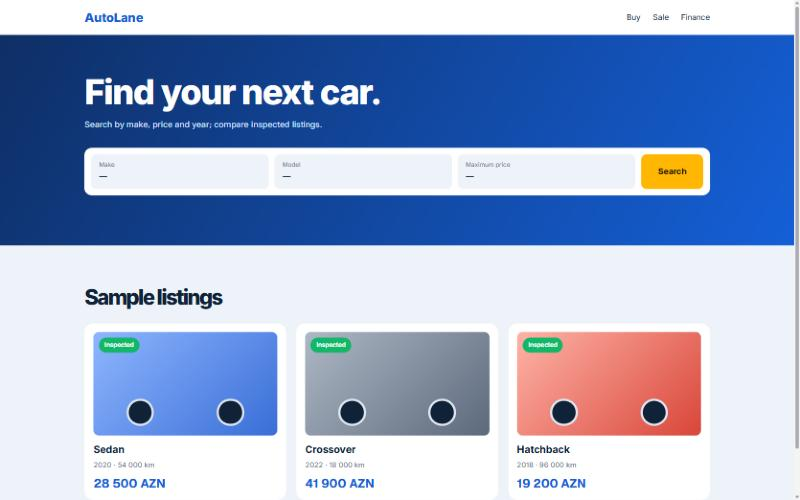
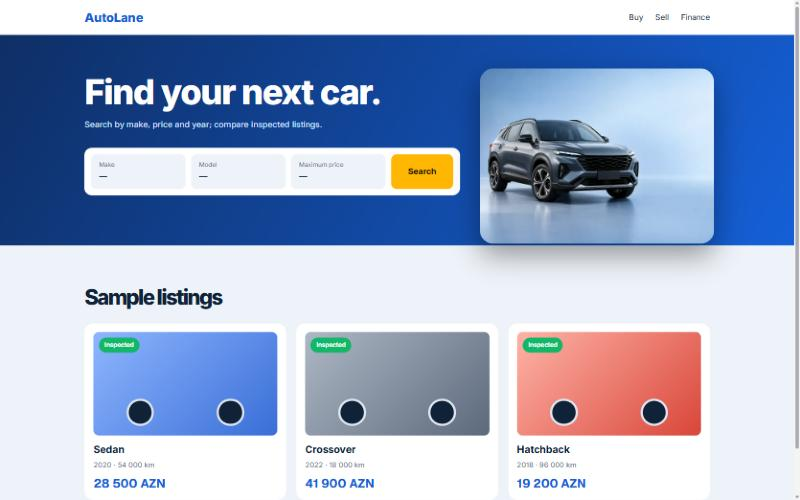
Add ChatGPT-generated hero imagery to showroom concepts and refresh previews
Eight original hero images (clinic, wealth, gym, motors, give, stream,
estate, bazar) resized to 1200px WebP, placed per concept, with new
catalogue preview screenshots.

Changed region(s): [[0.4688, 0.12, 0.9062, 0.54], [0.3438, 0.3, 0.4062, 0.36], [0.7812, 0.03, 0.8438, 0.06]]

diff --git a/storefront/src/showroom.js b/storefront/src/showroom.js
@@ -2,6 +2,7 @@
 import {copy,showroomMeta} from './showroom-copy.js';
 export const showroomIds=Object.keys(showroomMeta);
 const e=s=>String(s).replace(/&/g,'&amp;').replace(/</g,'&lt;').replace(/>/g,'&gt;');
+const ph=(id,cls)=>`<img class="${cls}" src="/assets/showroom/${id}.webp" alt="" width="1200" height="900" decoding="async">`;
 const wrap=(inner,cls='')=>`<div class="x-wrap ${cls}">${inner}</div>`;
 
 const renderers={
@@ -10,43 +11,44 @@ const renderers={
   return `<header class="cl-nav">${wrap(`<strong>Sunny Kids</strong><nav>${k.nav.map(n=>`<span>${t(n)}</span>`).join('')}</nav><span class="cl-call">${t(k.cta)}</span>`)}</header>`+
   `<section class="cl-hero">${wrap(`<div class="cl-copy"><h1>${t(k.headline)}</h1><p>${t(k.sub)}</p><span class="cl-btn">${t(k.cta)}</span></div><div class="cl-ages" aria-hidden="true">${ages}</div>`)}</section>`+
   `<section class="cl-services">${wrap(`<h2>${t(k.servicesTitle)}</h2><div class="cl-grid">${k.services.map((s,i)=>`<div class="cl-card cl-c${i}"><i></i><strong>${t(s)}</strong></div>`).join('')}</div>`)}</section>`+
-  `<section class="cl-doctors">${wrap(`<h2>${t(k.doctorsTitle)}</h2><div class="cl-docs">${k.doctors.map((d,i)=>`<figure><span class="av av${i}"></span><figcaption>${t(d)}</figcaption></figure>`).join('')}</div><p class="cl-quote">${t(k.quote)}</p>`)}</section>`;
+  `<section class="cl-doctors">${wrap(`<h2>${t(k.doctorsTitle)}</h2><div class="cl-docs">${k.doctors.map((d,i)=>`<figure><span class="av av${i}"></span><figcaption>${t(d)}</figcaption></figure>`).join('')}</div><div class="cl-bottom"><p class="cl-quote">${t(k.quote)}</p>${ph('clinic','cl-photo')}</div>`)}</section>`;
  },
  wealth:(T,t)=>{const k=copy.wealth;
   const chart='<svg viewBox="0 0 200 70" aria-hidden="true"><path d="M0 60 C40 55 60 40 100 34 S160 12 200 6" fill="none" stroke="#1769ff" stroke-width="3"/><path d="M0 60 C40 58 70 52 100 48 S160 36 200 30" fill="none" stroke="#9db8e8" stroke-width="2" stroke-dasharray="4 4"/></svg>';
   return `<header class="wl-top">${wrap(`<strong>Growly</strong><nav>${k.tabs.map((x,i)=>`<span${i===0?' class="on"':''}>${t(x)}</span>`).join('')}</nav>`)}</header>`+
   `<section class="wl-hero">${wrap(`<div><h1>${t(k.headline)}</h1><p>${t(k.sub)}</p><ul>${k.bullets.map(b=>`<li>${t(b)}</li>`).join('')}</ul><span class="wl-btn">${t(k.cta)}</span></div><div class="wl-phone" aria-hidden="true"><div class="wl-screen"><small>${t(k.goal)}</small><b>94 893 AZN</b>${chart}<div class="wl-row"><span>${t(k.balance)}</span><b>1 730 AZN</b></div><div class="wl-row"><span>${t(k.sample)}</span><b>—</b></div></div></div>`)}</section>`+
-  `<section class="wl-cards">${wrap(`<h2>${t(k.cardsTitle)}</h2><div class="wl-grid">${k.cards.map(([h,d],i)=>`<article><span>0${i+1}</span><h3>${t(h)}</h3><p>${t(d)}</p></article>`).join('')}</div><p class="wl-note">${t(k.disclaimer)}</p>`)}</section>`;
+  `<section class="wl-cards">${wrap(`${ph('wealth','wl-photo')}<h2>${t(k.cardsTitle)}</h2><div class="wl-grid">${k.cards.map(([h,d],i)=>`<article><span>0${i+1}</span><h3>${t(h)}</h3><p>${t(d)}</p></article>`).join('')}</div><p class="wl-note">${t(k.disclaimer)}</p>`)}</section>`;
  },
  gym:(T,t)=>{const k=copy.gym;
   const rows=[[0,'19:00','MMA',0],[1,'20:00','Muay Thai',1],[2,'19:00','BJJ',0],[0,'20:30','BJJ',1]].map(([d,h,n,l])=>`<tr><td>${t(k.days[d])}</td><td>${h}</td><td><b>${n}</b></td><td>${t(k.levels[l])}</td></tr>`).join('');
   return `<header class="gy-top">${wrap(`<strong>WOLFPACK</strong><nav>${k.nav.map(n=>`<span>${t(n)}</span>`).join('')}</nav>`)}</header>`+
-  `<section class="gy-hero">${wrap(`<h1>${t(k.headline)}</h1><p>${t(k.sub)}</p><span class="gy-btn">${t(k.cta)}</span>`)}<div class="gy-strip" aria-hidden="true"></div></section>`+
+  `<section class="gy-hero">${ph('gym','gy-photo')}${wrap(`<h1>${t(k.headline)}</h1><p>${t(k.sub)}</p><span class="gy-btn">${t(k.cta)}</span>`)}<div class="gy-strip" aria-hidden="true"></div></section>`+
   `<section class="gy-disc">${wrap(k.disciplines.map(([n,d],i)=>`<article><span>0${i+1}</span><h2>${n}</h2><p>${t(d)}</p></article>`).join(''))}</section>`+
   `<section class="gy-sched">${wrap(`<h2>${t(k.scheduleTitle)}</h2><table><tbody>${rows}</tbody></table>`)}</section>`;
  },
  motors:(T,t)=>{const k=copy.motors;
   const cars=[['28 500','2020 · 54 000 km','blue'],['41 900','2022 · 18 000 km','slate'],['19 200','2018 · 96 000 km','red']].map(([p,s,col],i)=>`<article class="mt-car"><div class="mt-img ${col}"><i></i><i></i></div><span class="mt-badge">${t(k.badge)}</span><h3>${t(k.cars[i])}</h3><p>${s}</p><strong>${p} AZN</strong></article>`).join('');
   return `<header class="mt-top">${wrap(`<strong>AutoLane</strong><nav>${k.nav.map(n=>`<span>${t(n)}</span>`).join('')}</nav>`)}</header>`+
-  `<section class="mt-hero">${wrap(`<h1>${t(k.headline)}</h1><p>${t(k.sub)}</p><div class="mt-search">${k.filters.map(f=>`<span><small>${t(f)}</small><b>—</b></span>`).join('')}<span class="mt-go">${t(k.search)}</span></div>`)}</section>`+
+  `<section class="mt-hero">${wrap(`${ph('motors','mt-photo')}<h1>${t(k.headline)}</h1><p>${t(k.sub)}</p><div class="mt-search">${k.filters.map(f=>`<span><small>${t(f)}</small><b>—</b></span>`).join('')}<span class="mt-go">${t(k.search)}</span></div>`)}</section>`+
   `<section class="mt-list">${wrap(`<h2>${t(k.listingsTitle)}</h2><div class="mt-grid">${cars}</div>`)}</section>`;
  },
  give:(T,t)=>{const k=copy.give;
   return `<header class="gv-top">${wrap(`<strong>Bir Süfrə</strong><nav>${k.nav.map(n=>`<span>${t(n)}</span>`).join('')}</nav>`)}</header>`+
   `<section class="gv-hero">${wrap(`<h1><span>${t(k.line1)}</span><span>${t(k.line2)}</span></h1><div class="gv-badge" aria-hidden="true"><b>${t(k.nav[2])}</b></div>`)}</section>`+
   `<section class="gv-stats">${wrap(`<p class="gv-note">${t(k.sample)}</p><div class="gv-row">${k.stats.map(([n,l])=>`<div><b>${n}</b><span>${t(l)}</span></div>`).join('')}</div>`)}</section>`+
+  `<section class="gv-band">${wrap(ph('give','gv-photo'))}</section>`+
   `<section class="gv-cards">${wrap(k.cards.map(([h,d],i)=>`<article class="gv-c${i}"><h3>${t(h)}</h3><p>${t(d)}</p></article>`).join(''))}</section>`+
   `<section class="gv-donate">${wrap(`<h2>${t(k.amount)}</h2><div class="gv-amounts"><span>10 AZN</span><span class="on">25 AZN</span><span>50 AZN</span></div><span class="gv-btn">${t(k.nav[2])}</span>`)}</section>`;
  },
  stream:(T,t)=>{const k=copy.stream;
   return `<header class="st-top"><strong>Arena</strong><nav>${k.nav.map((n,i)=>`<span${i===0?' class="on"':''}>${t(n)}</span>`).join('')}</nav></header>`+
-  `<section class="st-hero"><div class="st-copy"><small>${t(k.eyebrow)}</small><h1>${t(k.headline)}</h1><p>${t(k.sub)}</p><div><span class="st-play">▶ ${t(k.play)}</span><span class="st-all">${t(k.all)}</span></div></div></section>`+
+  `<section class="st-hero">${ph('stream','st-photo')}<div class="st-copy"><small>${t(k.eyebrow)}</small><h1>${t(k.headline)}</h1><p>${t(k.sub)}</p><div><span class="st-play">▶ ${t(k.play)}</span><span class="st-all">${t(k.all)}</span></div></div></section>`+
   `<section class="st-row"><h2>${t(k.rowTitle)}</h2><div class="st-tiles">${k.tiles.map((x,i)=>`<article class="st-t${i}"><b>${i+1}</b><div><small>${t(k.eyebrow)}</small><strong>${t(x)}</strong></div></article>`).join('')}</div></section>`;
  },
  bazar:(T,t)=>{const k=copy.bazar;
   const items=k.items.map((x,i)=>`<article><div class="bz-img bz${i}"></div><h3>${t(x)}</h3><b>${[899,420,260,1150][i]} AZN</b><small>${t(k.city)} · ${t(k.today)}</small></article>`).join('');
   return `<header class="bz-top">${wrap(`<strong>Bazarlıq</strong><div class="bz-search"><span>${t(k.placeholder)}</span><i>${t(k.city)}</i><b>${t(k.search)}</b></div><span class="bz-post">+ ${t(k.post)}</span>`)}</header>`+
-  `<section class="bz-hero">${wrap(`<h1>${t(k.headline)}</h1><div class="bz-cats">${k.cats.map((c2,i)=>`<span class="bz-cat bzc${i%4}">${t(c2)}</span>`).join('')}</div>`)}</section>`+
+  `<section class="bz-hero">${wrap(`<div><h1>${t(k.headline)}</h1><div class="bz-cats">${k.cats.map((c2,i)=>`<span class="bz-cat bzc${i%4}">${t(c2)}</span>`).join('')}</div></div>${ph('bazar','bz-photo')}`)}</section>`+
   `<section class="bz-prem">${wrap(`<h2>${t(k.premium)}</h2><div class="bz-grid">${items}</div>`)}</section>`;
  },
  avto:(T,t)=>{const k=copy.avto;
@@ -62,7 +64,7 @@ const renderers={
  estate:(T,t)=>{const k=copy.estate;
   const cards=[[0,'165 000','78','2 115',5,0],[1,'112 000','54','2 074',3,1],[2,'289 000','160','1 806',null,0]].map(([ti,p,a,m,f,bd])=>`<article class="es-card"><div class="es-img es${ti}"></div><div><span class="es-type">${t(k.types[ti])}</span><strong>${p} AZN</strong><p>${a} m² · ${m} AZN/m²${f?` · ${e(T(k.floor[0],{n:f}))}`:''}</p><span class="es-badge">${t(k.badges[bd])}</span></div></article>`).join('');
   return `<header class="es-top">${wrap(`<strong>Ünvan</strong><div class="es-modes">${k.modes.map((m,i)=>`<span${i===0?' class="on"':''}>${t(m)}</span>`).join('')}</div><div class="es-rooms"><small>${t(k.rooms)}</small>${['1','2','3','4+'].map((r,i)=>`<span${i===1?' class="on"':''}>${r}</span>`).join('')}</div>`)}</header>`+
-  `<section class="es-main"><div class="es-left"><h1>${t(k.headline)}</h1>${cards}</div><div class="es-map" aria-hidden="true"><span>${t(k.map)}</span>${[[22,30],[48,52],[70,24],[34,70],[62,66],[80,48]].map(([x,y],i)=>`<i class="pin p${i}"></i>`).join('')}</div></section>`;
+  `<section class="es-main"><div class="es-left"><h1>${t(k.headline)}</h1>${ph('estate','es-photo')}${cards}</div><div class="es-map" aria-hidden="true"><span>${t(k.map)}</span>${[[22,30],[48,52],[70,24],[34,70],[62,66],[80,48]].map(([x,y],i)=>`<i class="pin p${i}"></i>`).join('')}</div></section>`;
  }
 };
 

diff --git a/storefront/src/showroom.css b/storefront/src/showroom.css
@@ -136,3 +136,14 @@
 .mt-img i,.av-img i{width:15%;bottom:9%;border-width:4px}
 .mt-img i:nth-child(1),.av-img i:nth-child(1){left:18%}.mt-img i:nth-child(2),.av-img i:nth-child(2){right:18%}
 .x-wrap>*{min-width:0}.lf-copy h1{overflow-wrap:anywhere}
+
+/* AI-generated hero photography (made with ChatGPT for BAKHY; original images, no brands). */
+.cl-bottom{display:grid;grid-template-columns:1fr 1fr;gap:5%;align-items:center;margin-top:30px}.cl-bottom .cl-quote{margin-top:0}.cl-photo{width:100%;height:auto;aspect-ratio:4/3;object-fit:cover;border-radius:36px}
+.wl-photo{display:block;width:100%;height:auto;aspect-ratio:21/9;object-fit:cover;border-radius:20px;margin-bottom:34px}
+.gy-hero{overflow:hidden}.gy-photo{position:absolute;right:0;top:0;width:58%;height:calc(100% - 26px);object-fit:cover;opacity:.8;-webkit-mask-image:linear-gradient(90deg,transparent,#000 45%);mask-image:linear-gradient(90deg,transparent,#000 45%)}.gy-hero .x-wrap{position:relative;z-index:1}
+.mt-hero .x-wrap{position:relative}.mt-photo{position:absolute;right:4%;top:-10px;width:34%;height:auto;aspect-ratio:4/3;object-fit:cover;border-radius:24px;box-shadow:0 20px 50px #0006}.mt-hero h1,.mt-hero p{max-width:56%}.mt-search{max-width:60%}
+.gv-band .x-wrap{padding-top:50px}.gv-photo{display:block;width:100%;height:auto;aspect-ratio:21/9;object-fit:cover;border-radius:28px}
+.st-hero{position:relative;overflow:hidden}.st-photo{position:absolute;inset:0;width:100%;height:100%;object-fit:cover;object-position:right center;opacity:.9;-webkit-mask-image:linear-gradient(90deg,transparent 12%,#000 72%);mask-image:linear-gradient(90deg,transparent 12%,#000 72%)}.st-copy{position:relative;z-index:1}
+.es-photo{display:block;width:100%;height:auto;aspect-ratio:16/9;object-fit:cover;border-radius:14px}
+.bz-hero .x-wrap{display:grid;grid-template-columns:1.2fr 1fr;gap:5%;align-items:center}.bz-photo{width:100%;height:auto;aspect-ratio:4/3;object-fit:cover;border-radius:32px}.bz-hero .bz-cats{grid-template-columns:repeat(2,1fr)}
+@media(max-width:900px){.cl-bottom,.bz-hero .x-wrap{grid-template-columns:1fr}.gy-photo{width:100%;opacity:.3;-webkit-mask-image:none;mask-image:none}.mt-photo{position:static;width:100%;margin:0 0 24px}.mt-hero h1,.mt-hero p,.mt-search{max-width:none}.st-photo{opacity:.45;-webkit-mask-image:none;mask-image:none;object-position:center}.wl-photo,.gv-photo{aspect-ratio:16/9}}

diff --git a/storefront/DESIGN.md b/storefront/DESIGN.md
@@ -39,3 +39,6 @@ The site ships in Azerbaijani (source), Russian and English at /az/, /ru/ and /e
 
 ## Service pages and concept sites — 29 October 2026
 Each service has a promotion page at /<lang>/services/<id>.html (website, system, integrated, print, video): hero with starting price, included items, audience, priced extras, process, FAQ, concept samples (website and system) and calls to action into the configurator or WhatsApp. Copy is in src/services-content.js; rates in the copy come from product-data.js, and EXTRA mirrors the constants inside calculate() (tests/i18n.test.mjs keeps them in sync). Eight concepts (casa, olio, aurea, forma, atelier, flow, reserve, stock) each have a themed mini-site at /<lang>/concepts/<id>.html, rendered from src/concepts.js with a neutral BAKHY ribbon that states it is a sample and links to the configurator with the reference project. Names and data inside concepts are samples; Velvet stays a portfolio showcase concept without a mini-site. service.html and concept.html are Vite shells; scripts/i18n-pages.mjs fills them per language, writes dist/sitemap.xml with hreflang alternates and removes the shells. Pricing cards, the project dialog and service pages link between all three layers.
+
+## Showroom concepts and generated imagery — 29 October 2026
+Ten further concepts (clinic, wealth, gym, motors, give, stream, bazar, avto, lal, estate) live in src/showroom.js and src/showroom-copy.js with their own palettes and layouts in src/showroom.css. They were inspired by the references the user supplied (a children's clinic, an investing app, a combat gym, a car marketplace, a charity, a media hub) and by four Azerbaijani classifieds platforms, but reuse no third-party copy, logos, names, colours or photography; the classifieds concepts use fictional names (Bazarlıq, Yolda, Cibdə, Ünvan). Eight hero photographs in public/assets/showroom/*.webp were generated in ChatGPT from original prompts (no people likenesses, brands or text) and resized to 1200px WebP; catalogue previews are screenshots in public/assets/showroom-<id>.jpg.
